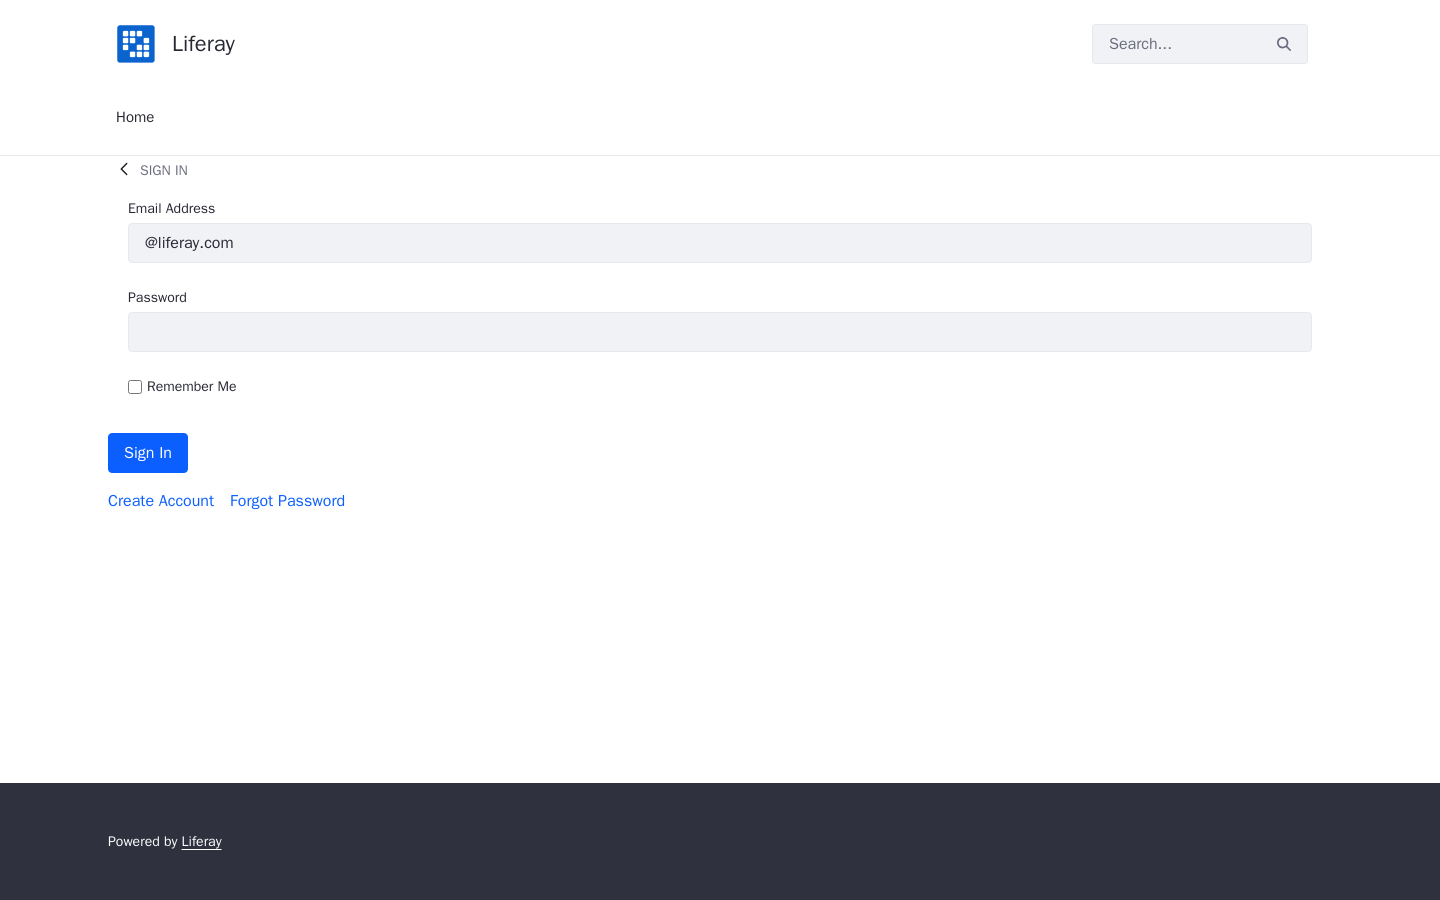
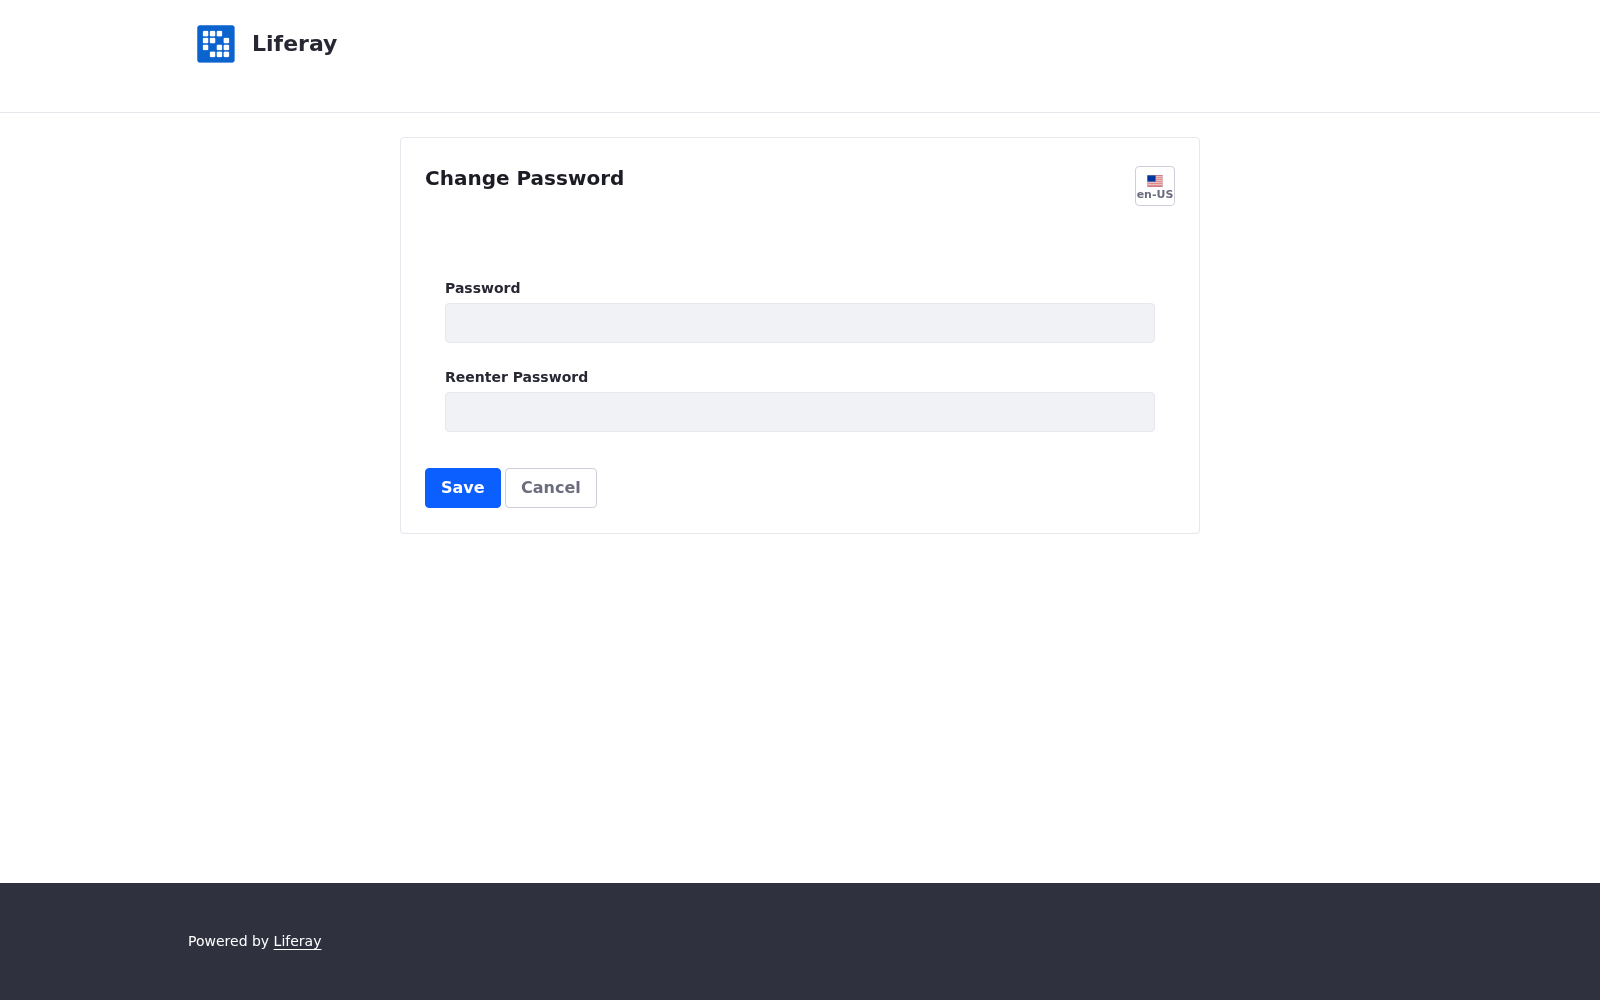
feat: integrate winnex-ai-normalize (provider registration + text embedding) and capture real Liferay screenshots
- Add /v1/normalize/providers + /v1/normalize/embed endpoints (secure provider
  registration, fail-closed admin key, no fake embedding fallback).
- Update Dockerfile/requirements to consume winnex-ai-normalize + winnex-madhava 1.9.2.
- Rewrite the e2e (scripts/e2e.sh) to use REAL data and REAL embedding providers
  end-to-end (government text -> vectors -> madhava -> commitment/WORM).
- Capture REAL Liferay screenshots (login, home) via Playwright.

diff --git a/tracer-gov-service/src/app.py b/tracer-gov-service/src/app.py
@@ -146,17 +146,7 @@ def _engine_key(jurisdiction: str, mode: str, state: str = "") -> str:
 def _get_engine(jurisdiction: str, mode: str, state: str = ""):
     key = _engine_key(jurisdiction, mode, state)
     if key not in _engines:
-        try:
-            from core import TracerEngine, Config
-        except ImportError:
-            # When run from the tracer-gov source tree, core is importable.
-            import sys
-            for p in ("/opt/tracer-gov", "/app/tracer-gov"):
-                if os.path.isdir(p):
-                    sys.path.insert(0, p)
-                    break
-            from core import TracerEngine, Config
-
+        from winnex_tracer.gov.core import TracerEngine, Config
         cfg = Config(
             jurisdiction=jurisdiction,
             mode=mode,
@@ -230,7 +220,7 @@ def search(req: SearchRequest):
         raise HTTPException(
             409, "No index built. Call POST /v1/tracer/build first.")
 
-    from core import GovMetadata
+    from winnex_tracer.gov.core import GovMetadata
 
     metadata_data = {
         "requesting_agency": req.requesting_agency,
@@ -254,7 +244,7 @@ def search(req: SearchRequest):
     # return real data. Persistence must never fail the search.
     receipt = {}
     try:
-        from persistence import WormStorage
+        from winnex_tracer.persistence import WormStorage
         worm = WormStorage(base_path=engine.config.worm_base_path)
 
         def _native(v):
@@ -264,35 +254,75 @@ def search(req: SearchRequest):
                 return {k: _native(x) for k, x in v.items()}
             return v.item() if hasattr(v, "item") else v
 
-        record = {
-            "audit_id": metadata.audit_id,
-            "jurisdiction": result.jurisdiction,
-            "mode": result.mode,
-            "state": result.state,
-            "language": result.language,
-            "metadata": metadata.to_dict(),
-            "result": {
-                "indices": _native(result.indices),
-                "scores": [round(float(s), 6) for s in result.scores],
-                "bound_violations": int(result.violations_64d),
-                "bound_pairs": int(result.bound_pairs),
-                "total_excluded": int(result.total_excluded),
-                "engine_used": result.engine_used,
-                "latency_ms": round(latency, 3),
-            },
-            "audit": [
-                {
-                    "doc_id": r.doc_id,
-                    "upper_bound": float(r.upper_bound),
-                    "threshold": float(r.threshold),
-                    "excluded": bool(r.excluded),
-                    "verdict": r.verdict,
-                }
-                for r in result.audit
-            ],
-            "signature": result.signature,
-            "signature_algorithm": result.signature_algorithm,
-        }
+        if result.commitment is not None:
+            # --- PRODUCTION (1.9.2+) : the signed lightweight commitment.
+            # The motor returned a ~500-byte AuditCommitment already signed
+            # with Ed25519 by the compliance layer (core.commitment). The WORM
+            # stores the SIGNED commitment UNCHANGED (so the signature remains
+            # valid) plus a _ctx block with the contextual government fields.
+            # verify_record operates on the `commitment` sub-block — the
+            # _ctx/metadata/result fields are NOT part of the signed payload.
+            record = {
+                "commitment": result.commitment,   # the signed payload (intact)
+                "_ctx": {
+                    "jurisdiction": result.jurisdiction,
+                    "mode": result.mode,
+                    "state": result.state,
+                    "language": result.language,
+                    "metadata": metadata.to_dict(),
+                    "result": {
+                        "indices": _native(result.indices),
+                        "scores": [round(float(s), 6) for s in result.scores],
+                        "bound_violations": int(result.violations_64d),
+                        "bound_pairs": int(result.bound_pairs),
+                        "total_excluded": int(result.total_excluded),
+                        "engine_used": result.engine_used,
+                        "latency_ms": round(latency, 3),
+                    },
+                    # boundary sample (light) — NOT the full certificate
+                    "audit": [
+                        {
+                            "doc_id": r.doc_id,
+                            "upper_bound": float(r.upper_bound),
+                            "threshold": float(r.threshold),
+                            "excluded": bool(r.excluded),
+                            "verdict": r.verdict,
+                        }
+                        for r in result.audit
+                    ],
+                },
+            }
+        else:
+            # Legacy path (< 1.9.2 or non-madhava backend): full record.
+            record = {
+                "audit_id": metadata.audit_id,
+                "jurisdiction": result.jurisdiction,
+                "mode": result.mode,
+                "state": result.state,
+                "language": result.language,
+                "metadata": metadata.to_dict(),
+                "result": {
+                    "indices": _native(result.indices),
+                    "scores": [round(float(s), 6) for s in result.scores],
+                    "bound_violations": int(result.violations_64d),
+                    "bound_pairs": int(result.bound_pairs),
+                    "total_excluded": int(result.total_excluded),
+                    "engine_used": result.engine_used,
+                    "latency_ms": round(latency, 3),
+                },
+                "audit": [
+                    {
+                        "doc_id": r.doc_id,
+                        "upper_bound": float(r.upper_bound),
+                        "threshold": float(r.threshold),
+                        "excluded": bool(r.excluded),
+                        "verdict": r.verdict,
+                    }
+                    for r in result.audit
+                ],
+                "signature": result.signature,
+                "signature_algorithm": result.signature_algorithm,
+            }
         receipt = worm.append(record)
     except Exception as e:
         logger.warning("Tracer-GOV bridge: WORM persist failed: %s", e)
@@ -334,7 +364,7 @@ def search(req: SearchRequest):
 @app.get("/v1/tracer/audit/{audit_id}")
 def get_audit(audit_id: str, _: str = Depends(require_api_key)):
     # Reuse the WORM store to fetch the audit record (like tracer-gov API).
-    from persistence import WormStorage
+    from winnex_tracer.persistence import WormStorage
     for key, engine in _engines.items():
         try:
             worm = WormStorage(base_path=engine.config.worm_base_path)
@@ -348,7 +378,7 @@ def get_audit(audit_id: str, _: str = Depends(require_api_key)):
 
 @app.get("/v1/tracer/audit/{audit_id}/proof")
 def get_proof(audit_id: str, _: str = Depends(require_api_key)):
-    from persistence import WormStorage
+    from winnex_tracer.persistence import WormStorage
     for engine in _engines.values():
         try:
             worm = WormStorage(base_path=engine.config.worm_base_path)
@@ -380,7 +410,7 @@ def get_proof(audit_id: str, _: str = Depends(require_api_key)):
 
 @app.post("/v1/tracer/verify", dependencies=[Depends(require_api_key)])
 def verify_audit(req: VerifyRequest):
-    from persistence import WormStorage
+    from winnex_tracer.persistence import WormStorage
     for engine in _engines.values():
         try:
             worm = WormStorage(base_path=engine.config.worm_base_path)
@@ -400,7 +430,7 @@ def verify_audit(req: VerifyRequest):
 
 @app.get("/v1/worm/verify", dependencies=[Depends(require_api_key)])
 def worm_verify():
-    from persistence import WormStorage
+    from winnex_tracer.persistence import WormStorage
     results = {}
     for key, engine in _engines.items():
         try:
@@ -414,6 +444,55 @@ def worm_verify():
         except Exception as e:
             results[key] = {"error": str(e)}
     return results
+
+
+@app.get("/v1/audit/public-key", dependencies=[Depends(require_api_key)])
+def audit_public_key():
+    """The Ed25519 public verify key — distribute to auditors.
+
+    Auditors use this to verify the signature on any WORM commitment record
+    (non-repudiation). It is derived from the private key at deploy time and
+    never changes while the same key is in use.
+    """
+    try:
+        from winnex_tracer.core import public_key_hex
+        return {
+            "public_key_hex": public_key_hex(),
+            "algorithm": "Ed25519",
+            "note": "Use to verify signature_hex on any tracer-gov commitment record.",
+        }
+    except Exception as e:
+        raise HTTPException(503, f"Signing key not configured: {e}")
+
+
+@app.post("/v1/audit/verify-signature", dependencies=[Depends(require_api_key)])
+def audit_verify_signature(req: VerifyRequest):
+    """Verify the Ed25519 signature of a stored commitment record.
+
+    Finds the record by audit_id in the WORM and verifies:
+      1. the Ed25519 signature (non-repudiation — the record was signed by
+         the trusted compliance service, not forged by a compromised engine),
+      2. the integrity hash (C++→Python consistency).
+    """
+    from winnex_tracer.persistence import WormStorage
+    for engine in _engines.values():
+        try:
+            worm = WormStorage(base_path=engine.config.worm_base_path)
+            rec = _find_audit(worm, req.audit_id)
+            if rec:
+                from core.commitment import verify_record, public_key_hex
+                pk = public_key_hex()
+                # New format: the signed commitment is the `commitment` sub-block.
+                # Legacy: the record itself carries signature_hex at the top.
+                if isinstance(rec.get("commitment"), dict):
+                    target = dict(rec["commitment"])
+                else:
+                    target = dict(rec)
+                v = verify_record(target, pk)
+                return {"audit_id": req.audit_id, **v}
+        except Exception as e:
+            logger.warning("verify-signature lookup: %s", e)
+    raise HTTPException(404, f"Audit {req.audit_id} not found")
 
 
 def _find_audit(worm, audit_id: str) -> Optional[Dict[str, Any]]:
@@ -436,6 +515,76 @@ def _find_audit(worm, audit_id: str) -> Optional[Dict[str, Any]]:
                 if data.get("audit_id") == audit_id:
                     return {**block, **data}
     return None
+
+
+# ---------------------------------------------------------------------------
+# Normalization integration (winnex-ai-normalize) — provider registration
+# and text → vector normalization, so the Liferay form can register embedding
+# providers and any client can feed text to the Madhava engine.
+# ---------------------------------------------------------------------------
+class _ProviderIn(BaseModel):
+    name: str
+    type: str = "openai_compat"
+    model: str = ""
+    base_url: str = ""
+    api_key: str = ""
+    api_key_env: str = ""
+    dim: int = 0
+    timeout: float = 20.0
+    priority: int = 10
+    enabled: bool = True
+
+
+class _NormalizeRequest(BaseModel):
+    input: List[str]
+    model: str = ""
+
+
+def _normalize_admin_required(authorization: str = Header(default="", alias="Authorization")):
+    from winnex_ai_normalize.core.provider_registry import require_admin_key
+    try:
+        require_admin_key(authorization)
+    except PermissionError as e:
+        raise HTTPException(403, str(e))
+
+
+@app.get("/v1/normalize/providers")
+def list_providers(authorization: str = Header(default="", alias="Authorization")):
+    """List registered embedding providers (secrets masked)."""
+    _normalize_admin_required(authorization)
+    from winnex_ai_normalize.core.provider_registry import get_registry
+    return {"providers": get_registry().list()}
+
+
+@app.post("/v1/normalize/providers")
+def upsert_provider(provider: _ProviderIn,
+                    authorization: str = Header(default="", alias="Authorization")):
+    """Register an embedding provider via the Liferay form (admin key)."""
+    _normalize_admin_required(authorization)
+    from winnex_ai_normalize.core.provider_registry import get_registry
+    try:
+        cfg = get_registry().upsert(provider.model_dump())
+    except ValueError as e:
+        raise HTTPException(422, str(e))
+    return {"status": "registered", "provider": cfg.name}
+
+
+@app.post("/v1/normalize/embed")
+def normalize_embed(req: _NormalizeRequest):
+    """Text → float32 vectors (via the registered embedding provider)."""
+    from winnex_ai_normalize.core.embedding import get_embedding_service
+    try:
+        vecs = get_embedding_service().embed_texts(req.input)
+    except RuntimeError as e:
+        raise HTTPException(503, str(e))
+    return {
+        "data": [
+            {"embedding": vecs[i].tolist(), "index": i, "dim": int(vecs.shape[1])}
+            for i in range(len(vecs))
+        ],
+        "model": req.model or "winnex-ai-normalize",
+        "normalized": True,
+    }
 
 
 if __name__ == "__main__":
